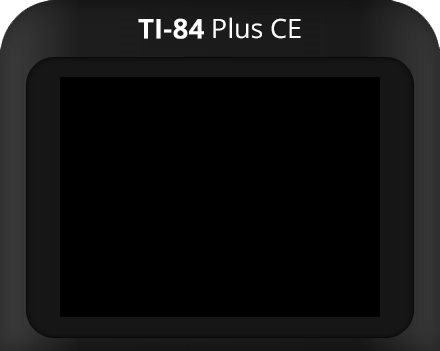
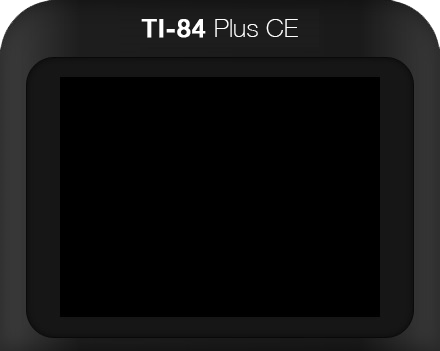
[GUI] Use an appropriate LCD skin based on the calc type

Changed region(s): [[0.2955, 0.0285, 0.6795, 0.114]]

diff --git a/gui/qt/mainwindow.cpp b/gui/qt/mainwindow.cpp
@@ -664,6 +664,7 @@ void MainWindow::started(bool success) {
     guiEmuValid = success;
     if (success) {
         ui->lcdWidget->setLCD(&lcd);
+        setCalcSkinTopFromType();
         setKeypadColor(settings->value(SETTING_KEYPAD_COLOR, get_device_type() ? KEYPAD_WHITE : KEYPAD_BLACK).toUInt());
     } else {
         QMessageBox::critical(this, MSG_ERROR, tr("Could not load ROM image. Please see console for more information."));
@@ -674,6 +675,7 @@ void MainWindow::restored(bool success) {
     guiEmuValid = success;
     if (success) {
         ui->lcdWidget->setLCD(&lcd);
+        setCalcSkinTopFromType();
         setKeypadColor(settings->value(SETTING_KEYPAD_COLOR, get_device_type() ? KEYPAD_WHITE : KEYPAD_BLACK).toUInt());
     } else {
         QMessageBox::critical(this, MSG_ERROR, tr("Resuming failed.\nPlease reload the ROM from the 'Calculator' menu."));

diff --git a/gui/qt/settings.cpp b/gui/qt/settings.cpp
@@ -285,6 +285,12 @@ void MainWindow::setKeypadColor(unsigned int color) {
     settings->setValue(SETTING_KEYPAD_COLOR, color);
 }
 
+void MainWindow::setCalcSkinTopFromType() {
+    bool is83 = get_device_type() == TI83PCE;
+    ui->calcSkinTop->setStyleSheet(is83 ? ".QFrame { border-image: url(:/skin/resources/skin/ti83pce.png) 0 0 0 0 stretch stretch; }"
+                                        : ".QFrame { border-image: url(:/skin/resources/skin/ti84pce.png) 0 0 0 0 stretch stretch; }");
+}
+
 void MainWindow::setImagePath() {
     QString saveImagePath = QFileDialog::getSaveFileName(this, tr("Set saved image to restore from"),
                                                            currDir.absolutePath(),

diff --git a/gui/qt/mainwindow.h b/gui/qt/mainwindow.h
@@ -256,6 +256,7 @@ private:
     void equatesRefresh();
     void selectKeypadColor();
     void setKeypadColor(unsigned int);
+    void setCalcSkinTopFromType();
 
     // Speed
     void setEmuSpeed(int);
